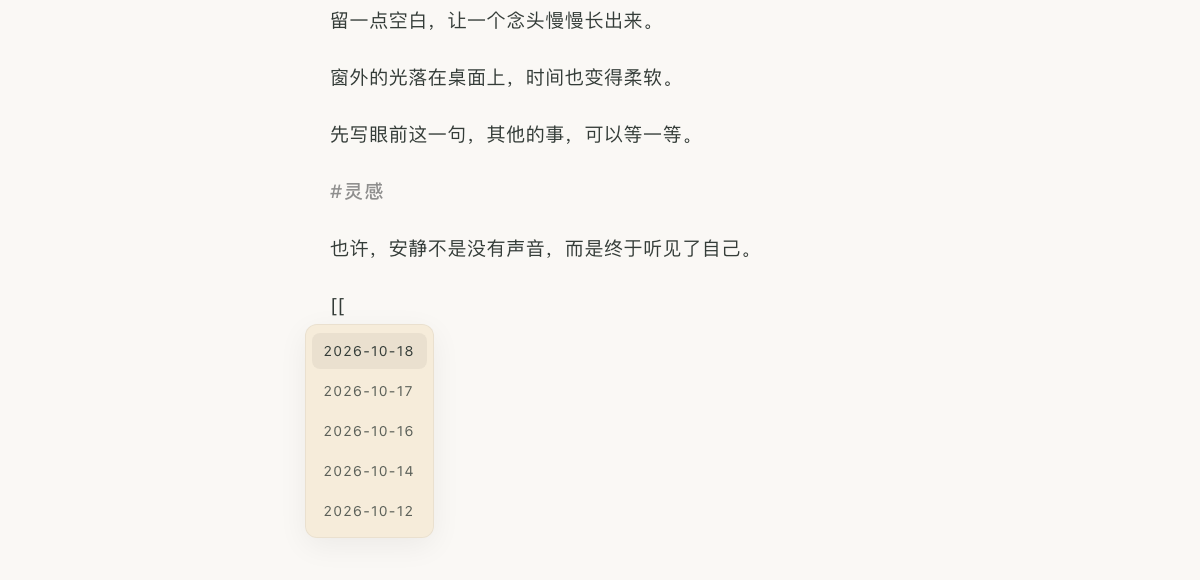
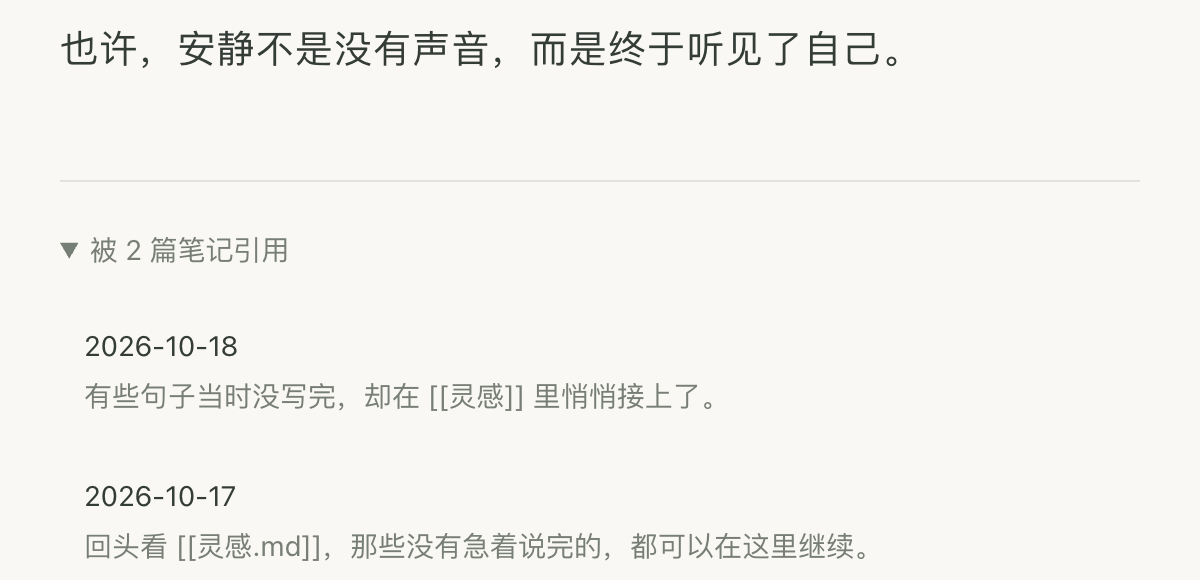
Showcase the real backlinks UI on the website
Replace the wiki-autocomplete preview in the recall section with a
1200x580 screenshot of the backlinks panel, regenerated via
scripts/shot-backlinks.mjs, and align the tab caption with the new image.

diff --git a/website/site.js b/website/site.js
@@ -76,7 +76,7 @@ const recallDescriptions = {
   timeline: ['时间轴回顾', '侧栏按日期展示笔记内容'],
   tags: ['标签回顾', '同一标签下的内容块按日期排列'],
   search: ['搜索与上下文', '搜索结果旁展示相关段落预览'],
-  links: ['Wiki 链接补全', '输入双方括号后展示已有笔记候选'],
+  links: ['反向链接', '正文下方折叠显示引用来源与片段'],
 };
 for (const button of document.querySelectorAll('[data-recall]')) {
   button.addEventListener('click', () => {
